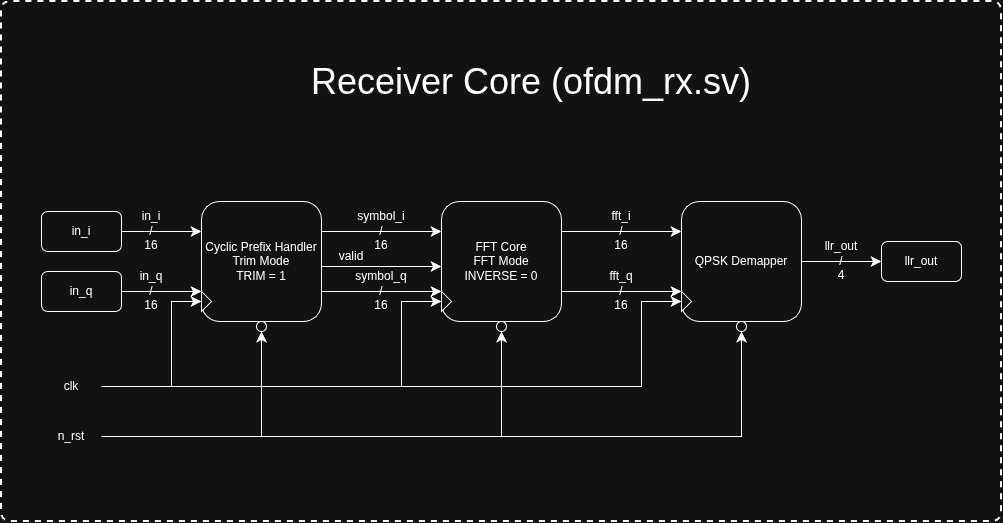
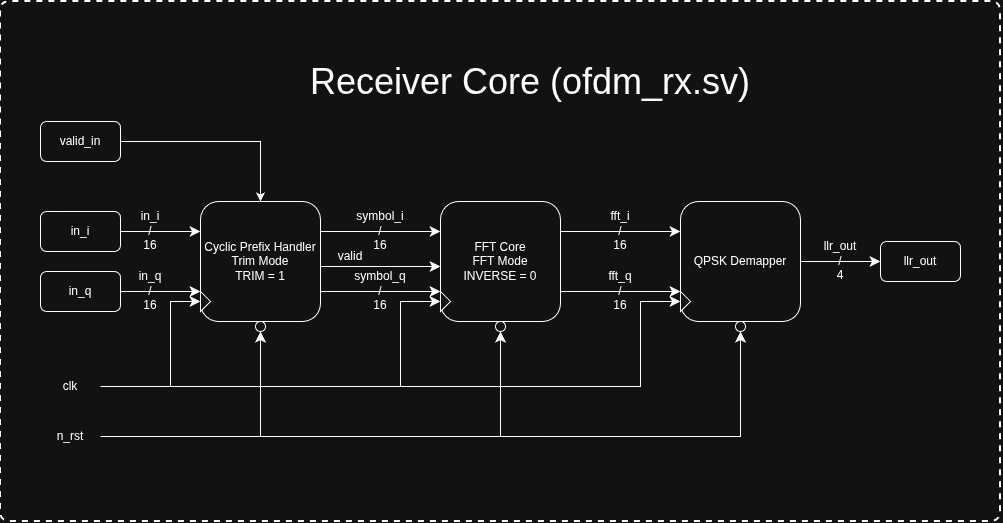
Receiver core diagram fix

diff --git a/README.md b/README.md
@@ -88,6 +88,7 @@ This module fully encapsulates the reception baseband pipeline, handling the tra
 | --------- | --------- | ----- | -------------------------------------------------------------------- |
 | clk       | Input     | 1     | System clock                                                         |
 | n_rst     | Input     | 1     | Global active-low asynchronous reset                                 |
+| valid_in  | Input     | 1     | Indicates valid input data                                           |
 | in_i      | Input     | 16    | Real time-domain component from channel/ADC ($Q6.10$ format)         |
 | in_q      | Input     | 16    | Complex time-domain component from channel/ADC      ($Q6.10$ format) |
 | llr_out   | Output    | 4     | 4-bit Signed Log-Likelihood Ratio stream                             |